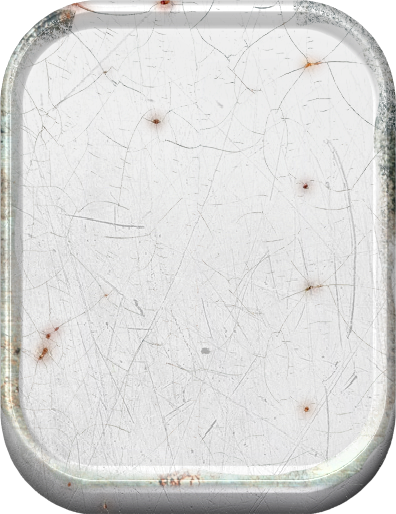
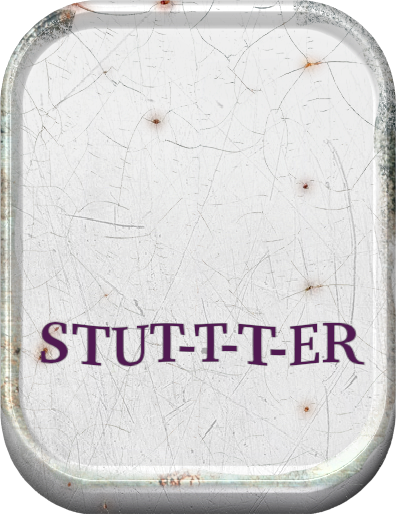
update GUI
update GUI  png de base

Changed region(s): [[0.0909, 0.6226, 0.9091, 0.716]]

diff --git a/zwabo-stuttterz.lv2/modgui/stylesheet-stuttterz.css b/zwabo-stuttterz.lv2/modgui/stylesheet-stuttterz.css
@@ -17,13 +17,13 @@
     right:30px;
     text-align:center;
     text-transform:uppercase;
-    top:290px;
+    top:270px;
 }
 
 .mod-pedal-lata{{{cns}}} .mod-plugin-brand h1 {
     color:#111;
     font-family:"Nexa";
-    font-size:32px;
+    font-size:22px;
 }
 
 /* = PLUGIN'S NAME
@@ -39,7 +39,7 @@
 
 .mod-pedal-lata{{{cns}}} .mod-plugin-name h1 {
     font-family:"Questrial";
-    font-size:24px;
+    font-size:0px;
     line-height:1;
 }
 

diff --git a/README.md b/README.md
@@ -25,15 +25,3 @@ TAIL : add a tail when stopping stutter (artifacts with random…)
 ENV : add an envelop to avoid clicks
 
 
-—————————
-
-Mod devices installation
-
-- Copy the zwabo-stuttterz.lv2 folder to your Mod:
-  
- ```
-scp -rp <path to zwabo-stuttterz.lv2> root@192.168.51.1:/root/.lv2
- ```
-
-- Enter password "mod"
-- Reboot Mod
